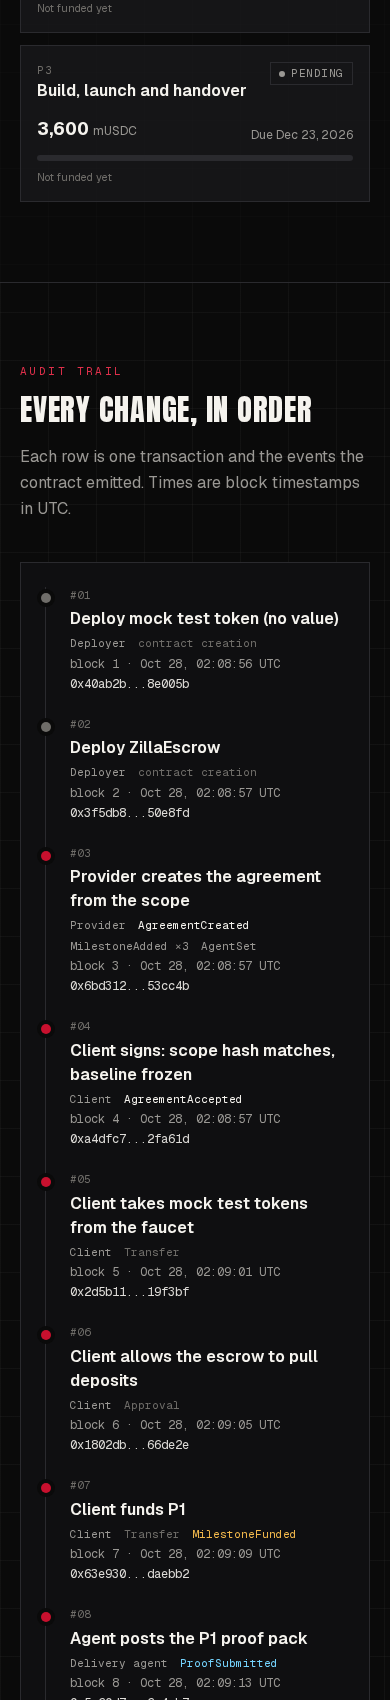
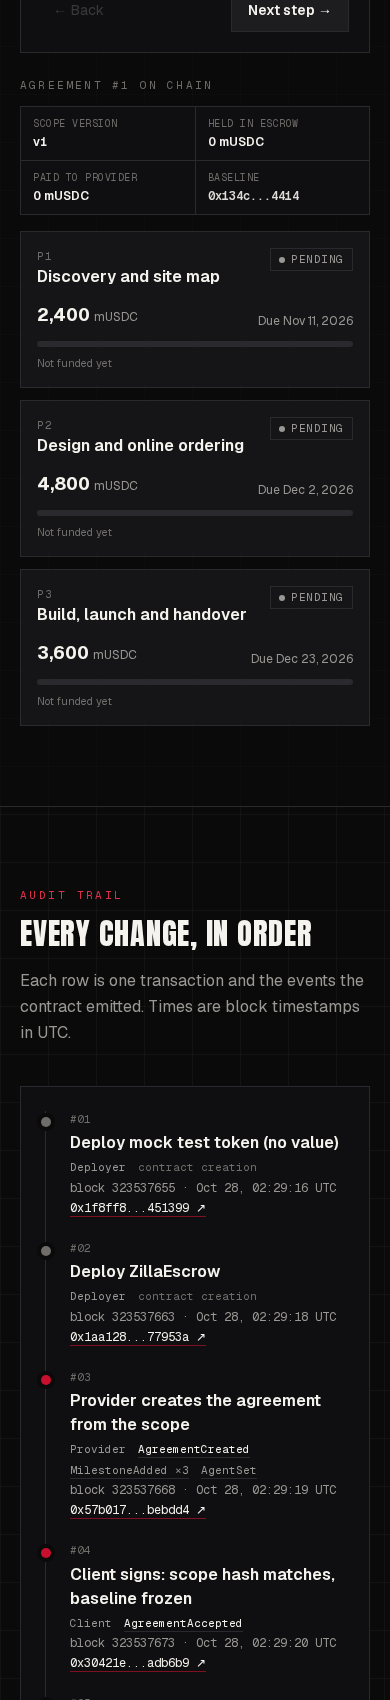
Record demo run on Arbitrum Sepolia: Arbiscan links for contracts and events, testnet label, refreshed screenshots and docs

diff --git a/web/src/components/Timeline.tsx b/web/src/components/Timeline.tsx
@@ -1,4 +1,4 @@
-import { fmtDateTime, ROLE_LABEL, run } from "@/lib/run";
+import { fmtDateTime, ROLE_LABEL, run, txUrl } from "@/lib/run";
 import { TxLink } from "./ui";
 
 const EVENT_TONE: Record<string, string> = {
@@ -23,6 +23,7 @@ export function Timeline() {
           acc[e.name] = (acc[e.name] ?? 0) + 1;
           return acc;
         }, {});
+        const logsUrl = txUrl(s.txHash) ? `${txUrl(s.txHash)}#eventlog` : null;
         return (
           <li key={s.txHash} className="relative pb-6 last:pb-0">
             <span
@@ -37,12 +38,26 @@ export function Timeline() {
                 <p className="font-semibold">{s.title}</p>
                 <p className="mt-1 flex flex-wrap gap-x-3 gap-y-1 font-mono text-[11px]">
                   <span className="text-muted">{ROLE_LABEL[s.role]}</span>
-                  {Object.entries(counts).map(([name, c]) => (
-                    <span key={name} className={EVENT_TONE[name] ?? "text-muted"}>
-                      {name}
-                      {c > 1 ? ` ×${c}` : ""}
-                    </span>
-                  ))}
+                  {Object.entries(counts).map(([name, c]) =>
+                    logsUrl ? (
+                      <a
+                        key={name}
+                        href={logsUrl}
+                        target="_blank"
+                        rel="noreferrer"
+                        title={`View ${name} in the Arbiscan event log`}
+                        className={`underline decoration-line underline-offset-4 hover:decoration-current focus-visible:outline-2 focus-visible:outline-offset-2 focus-visible:outline-zilla ${EVENT_TONE[name] ?? "text-muted"}`}
+                      >
+                        {name}
+                        {c > 1 ? ` ×${c}` : ""}
+                      </a>
+                    ) : (
+                      <span key={name} className={EVENT_TONE[name] ?? "text-muted"}>
+                        {name}
+                        {c > 1 ? ` ×${c}` : ""}
+                      </span>
+                    ),
+                  )}
                   {s.key.startsWith("deploy") ? <span className="text-dim">contract creation</span> : null}
                 </p>
               </div>

diff --git a/web/src/app/page.tsx b/web/src/app/page.tsx
@@ -52,13 +52,13 @@ export default function Home() {
           </nav>
           <p
             className={`border px-3 py-1.5 font-mono text-[11px] uppercase tracking-wider ${
-              isLocal ? "border-warn/50 text-warn" : "border-ok/50 text-ok"
+              "border-warn/50 text-warn"
             }`}
           >
             <span className="sr-only">Network: </span>
-            Testnet
-            <span className="hidden sm:inline"> · {isLocal ? "Local rehearsal" : run.network.name}</span>
-            <span className="hidden lg:inline"> · test tokens, no value</span>
+            <span className="sm:hidden">Testnet</span>
+            <span className="hidden sm:inline">{isLocal ? "Testnet · Local rehearsal" : `${run.network.name} testnet`}</span>
+            <span className="hidden lg:inline"> · Not audited · test tokens, no value</span>
           </p>
         </div>
       </header>
@@ -112,7 +112,7 @@ export default function Home() {
                   made up, and payments use a mock token with no value.{" "}
                   {isLocal
                     ? "This recording comes from a local rehearsal chain. Public explorer links appear once the same run is repeated on Arbitrum Sepolia."
-                    : "Each transaction links to Arbiscan."}
+                    : "Every transaction and contract below links to Arbiscan on Arbitrum Sepolia, so each step can be checked on the public testnet."}
                 </>
               }
             />

diff --git a/docs/SCORECARD.md b/docs/SCORECARD.md
@@ -1,6 +1,6 @@
 # Self-grading scorecard
 
-Graded 2026-10-27 against the rubric below. Each criterion is scored 0 to 10, and the total is the weighted average. Target: code at least 9.2 and design at least 9.2. This is a self-assessment by the build agent, not an outside review or an audit.
+Graded 2026-10-27 (updated after the Arbitrum Sepolia run) against the rubric below. Each criterion is scored 0 to 10, and the total is the weighted average. Target: code at least 9.2 and design at least 9.2. This is a self-assessment by the build agent, not an outside review or an audit.
 
 ## Code rubric
 
@@ -10,9 +10,9 @@ Graded 2026-10-27 against the rubric below. Each criterion is scored 0 to 10, an
 | C2 | Security posture | 20% | Reentrancy guarded, strict access control, checks-effects-interactions, hostile tokens handled, no admin keys | 9.2 | `nonReentrant` on every payout, plus a malicious-token reentrancy suite. Fee-on-transfer tokens are rejected, there is no owner, and stale change orders are blocked. Deduction: no external audit or static analyzer run yet. |
 | C3 | Test depth | 15% | Unit, fuzz and invariant tests, with high line and branch coverage | 9.3 | 100% lines, 97.9% statements, 88.6% branches, 100% functions. Fuzz runs 1,024 times per property. Deduction: 8 branches are not yet covered. |
 | C4 | Type safety and build hygiene | 15% | Strict TypeScript, clean lint, clean production build | 9.5 | `tsc` strict, ESLint and `next build` are all clean, and every page is static. ABI types are generated `as const` from the compiled contract. |
-| C5 | Reproducibility | 15% | One command regenerates every number shown | 9.3 | `pnpm demo:run` writes run.json, and `export-tests.mjs` writes tests.json. The page renders only those files. Deduction: the Sepolia run is not recorded yet (faucet blocked). |
+| C5 | Reproducibility | 15% | One command regenerates every number shown | 9.5 | `pnpm demo:run` writes run.json, and `export-tests.mjs` writes tests.json. The page renders only those files. The full 14-transaction run is recorded on Arbitrum Sepolia, and the in-page check reads the deployed contract over the public RPC. Deduction: contract source is not yet verified on Arbiscan. |
 | C6 | Hygiene and docs | 10% | No secrets, clear README, honest status | 9.4 | Keys are kept outside the repo, `.gitignore` covers env files, keys and zips, and a scan found no secrets. The README states that this is a testnet demo, not audited, with legal review before mainnet. |
-| | **Weighted total** | | | **9.38** | |
+| | **Weighted total** | | | **9.40** | |
 
 ## Design rubric
 
@@ -21,7 +21,7 @@ Graded 2026-10-27 against the rubric below. Each criterion is scored 0 to 10, an
 | D1 | Brand fidelity | 20% | Matches zillalabs.ai: ink and bone with a red accent, Anton headlines, square thin-bordered panels, official logo untouched | 9.4 | Uses the official SVG mark as is, the brand palette tokens, Anton plus Geist, and square 1px panels with no heavy shadows. |
 | D2 | Flow clarity | 20% | A first-time viewer understands who does what at each step | 9.3 | Six-step stepper with the acting role on each step, a live agreement board beside it, and a before-and-after delta panel for the change order. |
 | D3 | Information hierarchy | 15% | Clear type scale and scannable numbers and hashes | 9.2 | Display headline, then section titles, then mono eyebrows. Amounts are large and hashes are shortened with full values behind links. |
-| D4 | Trust and honesty | 15% | Testnet status always visible, nothing overstated, all data fictional and labeled | 9.6 | Sticky testnet badge, "Demo. Not audited." in the hero, "(fictional)" on every party, and a "Local rehearsal" label until Sepolia. No metrics are invented. |
+| D4 | Trust and honesty | 15% | Testnet status always visible, nothing overstated, all data fictional and labeled | 9.6 | Sticky testnet badge, "Demo. Not audited." in the hero, "(fictional)" on every party, and an "Arbitrum Sepolia testnet · Not audited" header badge. Every transaction and contract links to Arbiscan. No metrics are invented. |
 | D5 | Responsive | 15% | Works from 390px to wide desktop with no overflow | 9.1 | Checked at 1440 and 390 wide. A mobile overflow in the stepper grid was found and fixed. Deduction: the mobile badge shortens to "Testnet" only. |
 | D6 | Accessibility | 15% | WCAG 2.2 AA: focus, keyboard, aria-live, reduced motion, 44px targets | 9.2 | Skip link, visible red focus rings, `aria-current` on steps, `aria-live` on the stage and hash check, a reduced-motion fallback, and 44px buttons. Status is shown with text plus color. Deduction: no automated axe pass yet. |
 | | **Weighted total** | | | **9.31** | |
@@ -36,3 +36,4 @@ Under `docs/screenshots/`: `desktop-hero.png`, `desktop-full.png`, `desktop-sect
 2. On mobile the walkthrough card overflowed the viewport because grid items had an auto minimum width. Fixed with `grid-cols-1` and `min-w-0`.
 3. The mobile header wrapped the wordmark onto two lines. Fixed with no-wrap and a shorter badge on small screens.
 4. The build failed on BigInt literals (ES2017 target), on JSON-inferred types that were too narrow, and on a set-state-in-effect lint error. Fixed with an ES2022 target, explicit `Run` types and `useMemo`.
+5. Recorded the run on Arbitrum Sepolia, replaced the "Local rehearsal" label with "Arbitrum Sepolia testnet", linked each event to its Arbiscan event log, and retook the screenshots.

diff --git a/README.md b/README.md
@@ -54,12 +54,17 @@ KEYS_FILE=/path/outside/repo/testnet.env NETWORK=arbitrum-sepolia \
   RPC_URL=https://sepolia-rollup.arbitrum.io/rpc pnpm demo:run
 ```
 
+Before deploying, the script tops up the client, provider and agent accounts from the deployer to `GAS_FLOOR_WEI` (default 0.0003 ETH each). On Arbitrum Sepolia the whole run used about 0.0001 ETH of gas, so `GAS_FLOOR_WEI=60000000000000` (0.00006 ETH) is enough and fits inside a single 0.001 ETH faucet claim.
+
 The deploy script refuses any chain other than Arbitrum Sepolia (421614) or a local anvil (31337).
 
 ## Status
 
-- Contracts and tests: done locally.
-- Demo app: replays a local anvil rehearsal. It switches to Arbitrum Sepolia explorer links once the same run is recorded there.
+- Contracts and tests: 47 Foundry tests pass.
+- Testnet deployment: recorded on Arbitrum Sepolia (chain 421614). The demo app replays that run, and every transaction and contract links to Arbiscan.
+  - ZillaEscrow: [`0x9e851ebb3ebc62e22f3294da072ab966c3390421`](https://sepolia.arbiscan.io/address/0x9e851ebb3ebc62e22f3294da072ab966c3390421)
+  - Mock test token (no value): [`0x60ea8357ce1747bf13eccb86d026163a246429a1`](https://sepolia.arbiscan.io/address/0x60ea8357ce1747bf13eccb86d026163a246429a1)
+- Contract source is not yet verified on Arbiscan.
 - Not audited. Legal review before mainnet.
 
-Internal planning index: Zilla brain `note-20261027-050`.
+Internal planning index: Zilla brain, tag `zilla-escrow` (latest index note).
